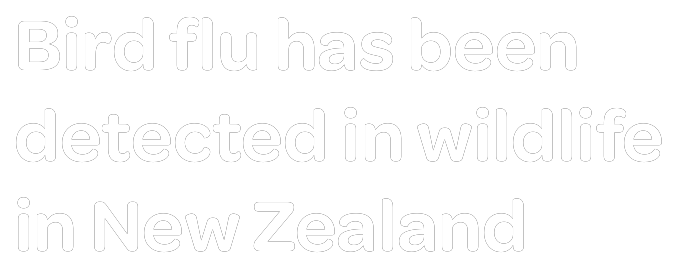
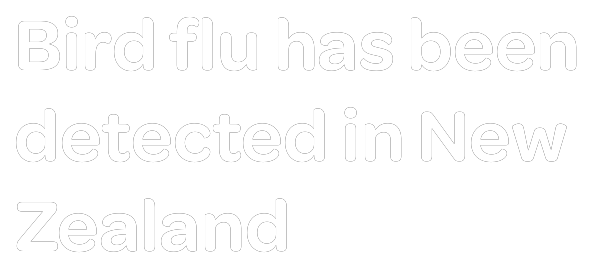
Update frame 2 copy: drop "in wildlife" per client feedback
"Bird flu has been detected in wildlife in New Zealand" ->
"Bird flu has been detected in New Zealand"

diff --git a/index.html b/index.html
@@ -71,7 +71,7 @@
   /* --- element placement --- */
   .birds    { left: 43.33px; top: 93.33px; width: 256.67px; height: 170px; }
   .headline { left: 7.33px;  top: 22px;    width: 229.33px; height: 97px; transform-origin: left center; }
-  .text2    { left: 10.33px; top: 68.33px; width: 226px;    height: 89.33px; }
+  .text2    { left: 10.33px; top: 68.33px; width: 197.67px; height: 89.33px; }
   .text3    { left: 9.67px;  top: 68.33px; width: 231.67px; height: 94px; }
   .text4    { left: 11px;    top: 68.33px; width: 220.33px; height: 64px; }
   .card     { left: 82.21px; top: 44.65px; width: 135.59px; height: 131.68px; }
@@ -151,7 +151,7 @@
 
     <div class="frame" id="frame2">
       <img class="bg" src="images/bg-feather.jpg" alt="">
-      <img class="static-el text2" src="images/el-frame2_text.png" alt="Bird flu has been detected in wildlife in New Zealand">
+      <img class="static-el text2" src="images/el-frame2_text.png" alt="Bird flu has been detected in New Zealand">
     </div>
 
     <div class="frame" id="frame3">